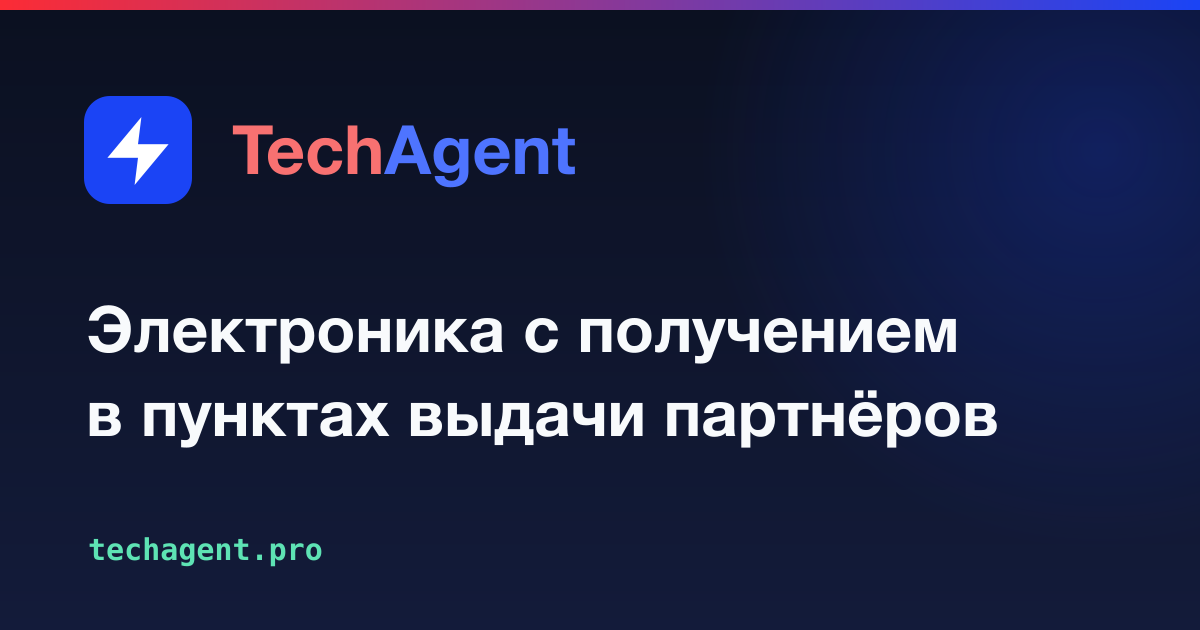
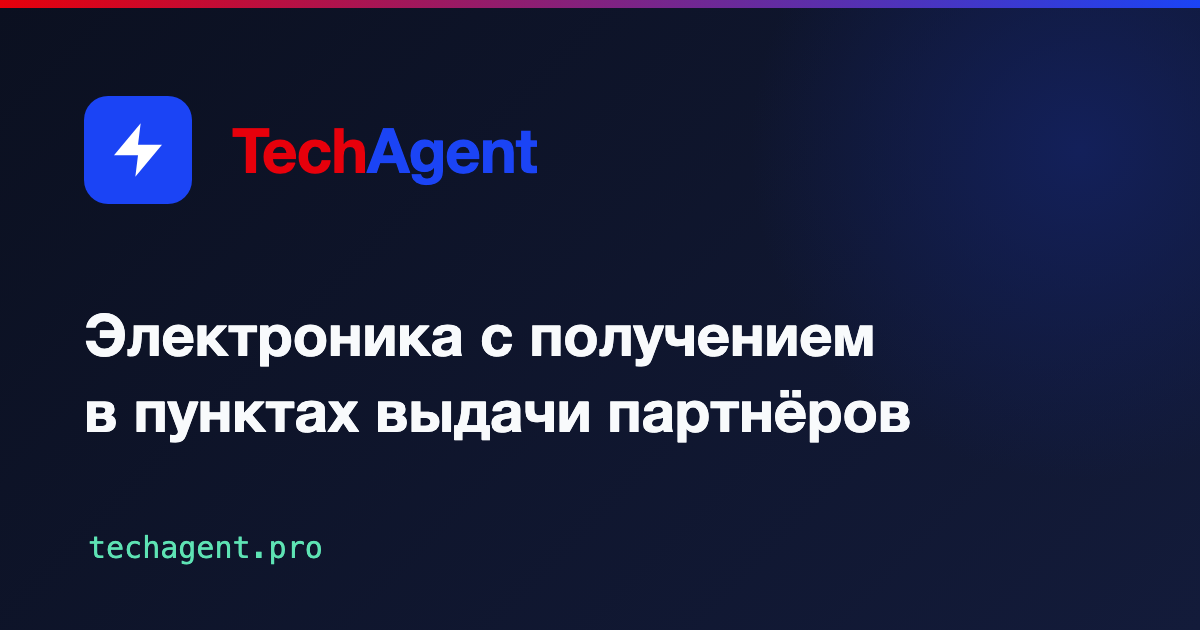
Один цвет логотипа везде: brand-red для Tech, primary для Agent (шапка, подвал, баннеры, картинка-превью)

diff --git a/src/pages/AboutPage.tsx b/src/pages/AboutPage.tsx
@@ -191,7 +191,7 @@ export default function AboutPage() {
         {/* ===== CTA ===== */}
         <div className="mb-14 sm:mb-20">
           <div className="bg-primary rounded-[28px] sm:rounded-3xl py-10 sm:py-16 px-6 sm:px-8 text-left sm:text-center text-white">
-            <h2 className="text-[26px] sm:text-[32px] font-extrabold tracking-tight leading-tight mb-3">Станьте партнёром <span className="text-red-500">Tech</span>Agent</h2>
+            <h2 className="text-[26px] sm:text-[32px] font-extrabold tracking-tight leading-tight mb-3">Станьте партнёром <span className="text-brand-red">Tech</span>Agent</h2>
             <p className="text-white/80 text-base leading-relaxed mb-7 sm:mb-8 max-w-xl sm:mx-auto">Оставьте заявку — после проверки ТехЭйджент откроет вам доступ в&nbsp;кабинет для заказов покупателей</p>
             <div className="flex flex-col sm:flex-row gap-3 justify-center">
               <Link to="/register" className="inline-flex items-center justify-center gap-2 px-8 min-h-[54px] bg-white text-text-primary rounded-2xl text-[15px] font-semibold no-underline hover:bg-white/90 transition-colors">

diff --git a/src/pages/HomePage.tsx b/src/pages/HomePage.tsx
@@ -384,7 +384,7 @@ export default function HomePage() {
         {/* ===== CTA ===== */}
         <div className="pt-12 sm:pt-24 pb-4">
           <div className="bg-primary rounded-[28px] sm:rounded-3xl py-10 sm:py-16 px-6 sm:px-8 text-left sm:text-center text-white">
-            <h2 className="text-[26px] sm:text-[32px] font-extrabold tracking-tight leading-tight mb-3">Станьте партнёром <span className="text-red-500">Tech</span>Agent</h2>
+            <h2 className="text-[26px] sm:text-[32px] font-extrabold tracking-tight leading-tight mb-3">Станьте партнёром <span className="text-brand-red">Tech</span>Agent</h2>
             <p className="text-white/80 text-base leading-relaxed mb-7 sm:mb-8">Оставьте заявку — после проверки ТехЭйджент откроет вам доступ в кабинет</p>
             <div className="flex flex-col sm:flex-row gap-3 justify-center">
               <Link to="/register" className="inline-flex items-center justify-center gap-2 px-8 min-h-[54px] bg-white text-text-primary rounded-2xl text-base font-semibold no-underline hover:bg-white/90 transition-colors">

diff --git a/src/components/layout/Footer.tsx b/src/components/layout/Footer.tsx
@@ -26,7 +26,7 @@ export default function Footer() {
                 <LogoIcon size={14} />
               </div>
               <span className="font-display text-base font-bold">
-                <span className="text-red-400">Tech</span><span className="text-primary-light">Agent</span>
+                <span className="text-brand-red">Tech</span><span className="text-primary">Agent</span>
               </span>
             </Link>
             <p className="text-text-dark-secondary text-sm leading-relaxed mb-4">

diff --git a/src/components/layout/Header.tsx b/src/components/layout/Header.tsx
@@ -54,7 +54,7 @@ export default function Header() {
               <LogoIcon size={16} />
             </div>
             <span className="font-display text-lg font-bold">
-              <span className="text-red-600">Tech</span><span className="text-primary">Agent</span>
+              <span className="text-brand-red">Tech</span><span className="text-primary">Agent</span>
             </span>
           </Link>
 

diff --git a/src/index.css b/src/index.css
@@ -2,6 +2,8 @@
 
 @theme {
   --color-primary: #1B44F5;
+  /* Цвета логотипа: «Tech» — brand-red, «Agent» — primary. Везде одни и те же. */
+  --color-brand-red: oklch(57.7% 0.245 27.325);
   --color-primary-dark: #0E2FCC;
   --color-primary-light: #4E74FF;
   --color-secondary: #6D4BF5;
